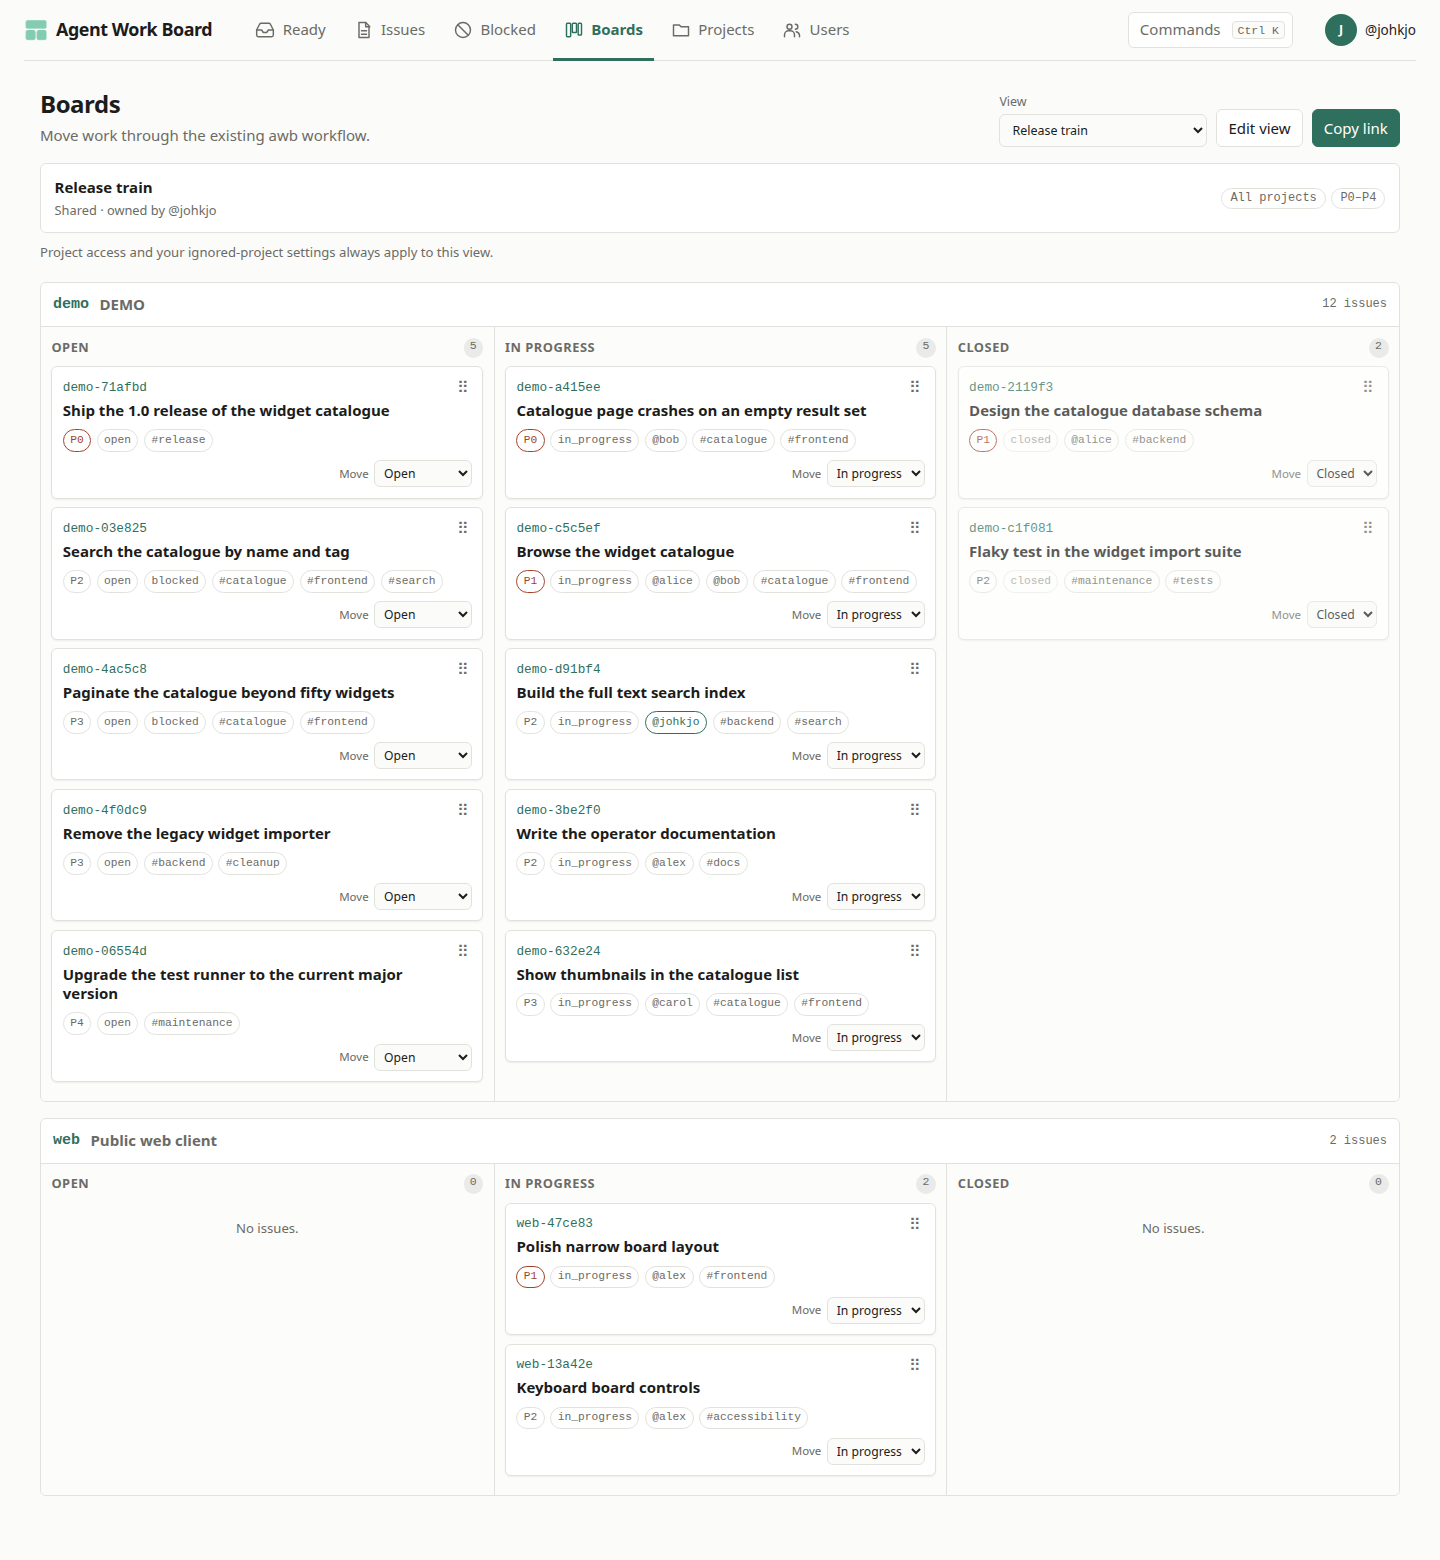
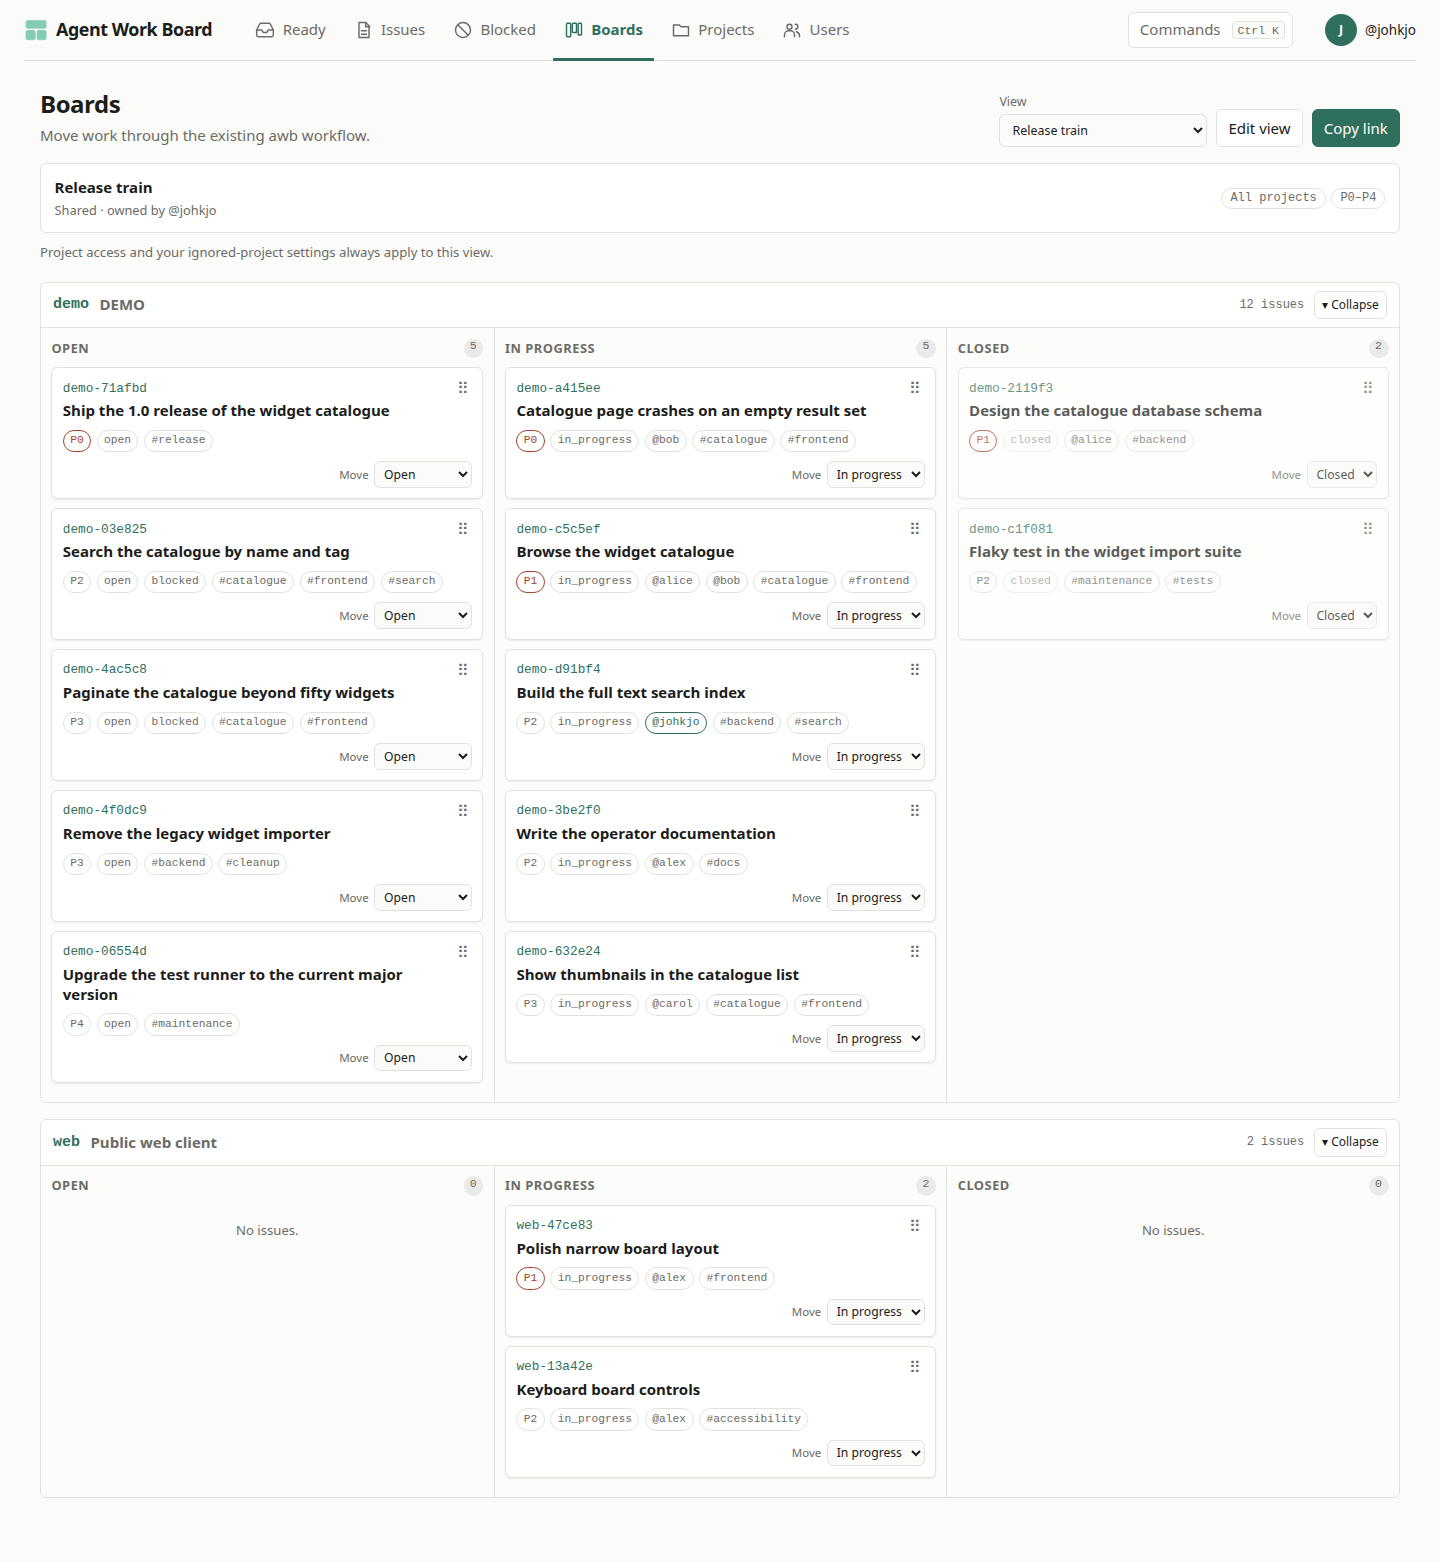
Make board swimlanes foldable

diff --git a/web/ts/app.ts b/web/ts/app.ts
@@ -971,6 +971,23 @@ function boardStatusLabel(status: BoardStatus): string {
   return status[0].toUpperCase() + status.slice(1);
 }
 
+function boardLaneCollapseKey(ref: string): string {
+  return `awb.board.${ref}.collapsed-lanes`;
+}
+
+function collapsedBoardLanes(ref: string): Set<string> {
+  try {
+    const stored: unknown = JSON.parse(localStorage.getItem(boardLaneCollapseKey(ref)) ?? "[]");
+    return new Set(Array.isArray(stored) ? stored.filter((value): value is string => typeof value === "string") : []);
+  } catch {
+    return new Set();
+  }
+}
+
+function saveCollapsedBoardLanes(ref: string, projects: Set<string>): void {
+  try { localStorage.setItem(boardLaneCollapseKey(ref), JSON.stringify([...projects].sort())); } catch { /* presentation state is best-effort */ }
+}
+
 async function moveBoardIssue(host: HTMLElement, issue: Issue, target: BoardStatus): Promise<void> {
   if (target === issue.status) return;
   if (!legalBoardTargets(issue, identity).includes(target)) {
@@ -1108,15 +1125,37 @@ function boardLane(ref: string, lane: Board["lanes"][number], issuesByID: Map<st
   const headingID = `board-lane-${lane.project.key}`;
   host.setAttribute("aria-labelledby", headingID);
   const heading = element("header", "board-lane-heading");
-  const name = element("div");
+  const name = element("div", "board-lane-name");
   const title = element("h2");
   title.id = headingID;
   title.append(element("code", "", lane.project.key), document.createTextNode(` ${lane.project.name}`));
   name.append(title);
   const total = lane.columns.reduce((sum, column) => sum + column.total, 0);
-  heading.append(name, element("span", "", `${total} issue${total === 1 ? "" : "s"}`));
+  const meta = element("div", "board-lane-meta");
+  meta.append(element("span", "board-lane-total", `${total} issue${total === 1 ? "" : "s"}`));
   const columns = element("div", "board-columns");
+  columns.id = `board-lane-columns-${lane.project.key}`;
   for (const column of lane.columns) columns.append(boardColumn(ref, lane.project.key, column, issuesByID));
+  const collapsed = collapsedBoardLanes(ref);
+  let isCollapsed = collapsed.has(lane.project.key);
+  const toggle = button("", "secondary-button board-lane-toggle");
+  toggle.setAttribute("aria-controls", columns.id);
+  const sync = (): void => {
+    columns.hidden = isCollapsed;
+    host.classList.toggle("collapsed", isCollapsed);
+    toggle.setAttribute("aria-expanded", String(!isCollapsed));
+    toggle.setAttribute("aria-label", `${isCollapsed ? "Expand" : "Collapse"} ${lane.project.name} swimlane`);
+    toggle.textContent = isCollapsed ? "▸ Expand" : "▾ Collapse";
+  };
+  toggle.addEventListener("click", () => {
+    isCollapsed = !isCollapsed;
+    if (isCollapsed) collapsed.add(lane.project.key); else collapsed.delete(lane.project.key);
+    saveCollapsedBoardLanes(ref, collapsed);
+    sync();
+  });
+  meta.append(toggle);
+  heading.append(name, meta);
+  sync();
   host.append(heading, columns);
   return host;
 }

diff --git a/web/static/app.css b/web/static/app.css
@@ -1146,11 +1146,15 @@ a.name .title { flex: 1 1 auto; min-width: 0; }
 .board-lanes { display: grid; gap: 1rem; }
 .board-lane { max-width: 100%; overflow: hidden; border: 1px solid var(--line); border-radius: var(--radius); background: var(--panel); }
 .board-lane-heading { display: flex; justify-content: space-between; gap: 1rem; align-items: center; min-height: 2.8rem; padding: 0.5rem 0.75rem; border-bottom: 1px solid var(--line); }
-.board-lane-heading div { display: flex; gap: 0.65rem; align-items: baseline; }
+.board-lane.collapsed .board-lane-heading { border-bottom: 0; }
+.board-lane-name { display: flex; gap: 0.65rem; align-items: baseline; }
 .board-lane-heading h2 { display: flex; gap: 0.65rem; margin: 0; font: inherit; font-weight: 650; }
 .board-lane-heading code { color: var(--accent); }
-.board-lane-heading > span { color: var(--muted); font: 0.75rem var(--mono); }
+.board-lane-meta { display: flex; gap: 0.6rem; align-items: center; }
+.board-lane-total { color: var(--muted); font: 0.75rem var(--mono); }
+.board-lane-toggle { padding: 0.25rem 0.45rem; font-size: 0.75rem; }
 .board-columns { display: grid; grid-template-columns: repeat(3, minmax(15rem, 1fr)); }
+.board-columns[hidden] { display: none; }
 .board-column { min-width: 0; min-height: 9rem; padding: 0.65rem; background: color-mix(in srgb, var(--bg) 70%, transparent); }
 .board-column + .board-column { border-left: 1px solid var(--line); }
 .board-column > header { display: flex; justify-content: space-between; margin-bottom: 0.55rem; color: var(--muted); font-size: 0.8rem; font-weight: 650; text-transform: uppercase; letter-spacing: 0.04em; }
@@ -1186,7 +1190,7 @@ a.name .title { flex: 1 1 auto; min-width: 0; }
   .board-summary { display: grid; align-items: start; }
   .board-filter-chips { justify-content: start; }
   .board-scope-note { line-height: 1.45; }
-  .board-lane-heading div { display: grid; gap: 0.1rem; }
+  .board-lane-name { display: grid; gap: 0.1rem; }
   .board-columns { display: grid; max-width: 100%; grid-auto-flow: column; grid-auto-columns: min(84vw, 22rem); grid-template-columns: none; overflow-x: auto; scroll-snap-type: x mandatory; overscroll-behavior-inline: contain; }
   .board-column { scroll-snap-align: start; }
   .board-card-drag { display: none; }

diff --git a/spec/ARCHITECTURE.md b/spec/ARCHITECTURE.md
@@ -565,8 +565,10 @@ both levels, so the browser never has to fetch the whole issue collection. The
 HTTP boundary defaults to ten lanes and fifty cards per column and refuses a
 limit above fifty; direct backend callers receive the same bounds. Deleting a
 selected project advances each affected view version before the foreign-key
-cascade changes its filter. Moves use claim, release, close and reopen rather
-than a second status-update path, preserving the status/assignment invariant.
+cascade changes its filter. A browser may fold project swimlanes locally; that
+presentation state is keyed by board reference and is not part of the shared
+view. Moves use claim, release, close and reopen rather than a second
+status-update path, preserving the status/assignment invariant.
 
 The user directory follows the same boundary without pretending that a person
 belongs to only one project. A member sees current accounts that participated

diff --git a/design/board-views/recommendation.md b/design/board-views/recommendation.md
@@ -149,6 +149,12 @@ roughly the viewport width. The column heading and count remain visible, cards
 use the explicit Move control, and project lanes stay vertically stacked.
 There is no miniature three-column layout with unreadable cards.
 
+Each swimlane is also a disclosure region. Its header keeps the project and
+issue count visible while its status columns are folded, and the browser
+remembers that presentation choice separately for each board. Folding is not
+part of the saved or shared view, so one viewer's workspace does not change
+another's.
+
 The view/configuration controls wrap into full-width rows. Shared-state and
 hidden-lane notices remain text, not icon-only affordances. Empty states exist
 at three levels: no authorized projects, no projects matching the saved view,
